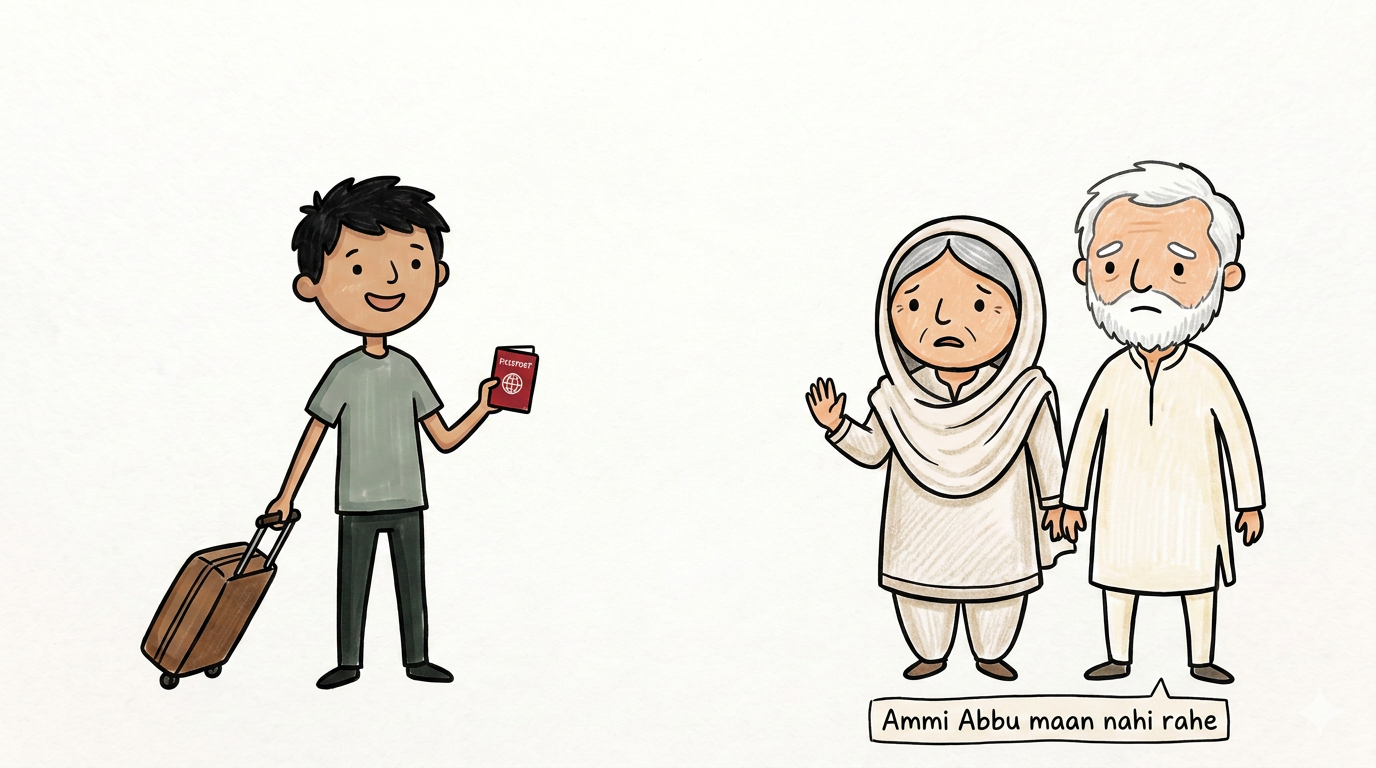
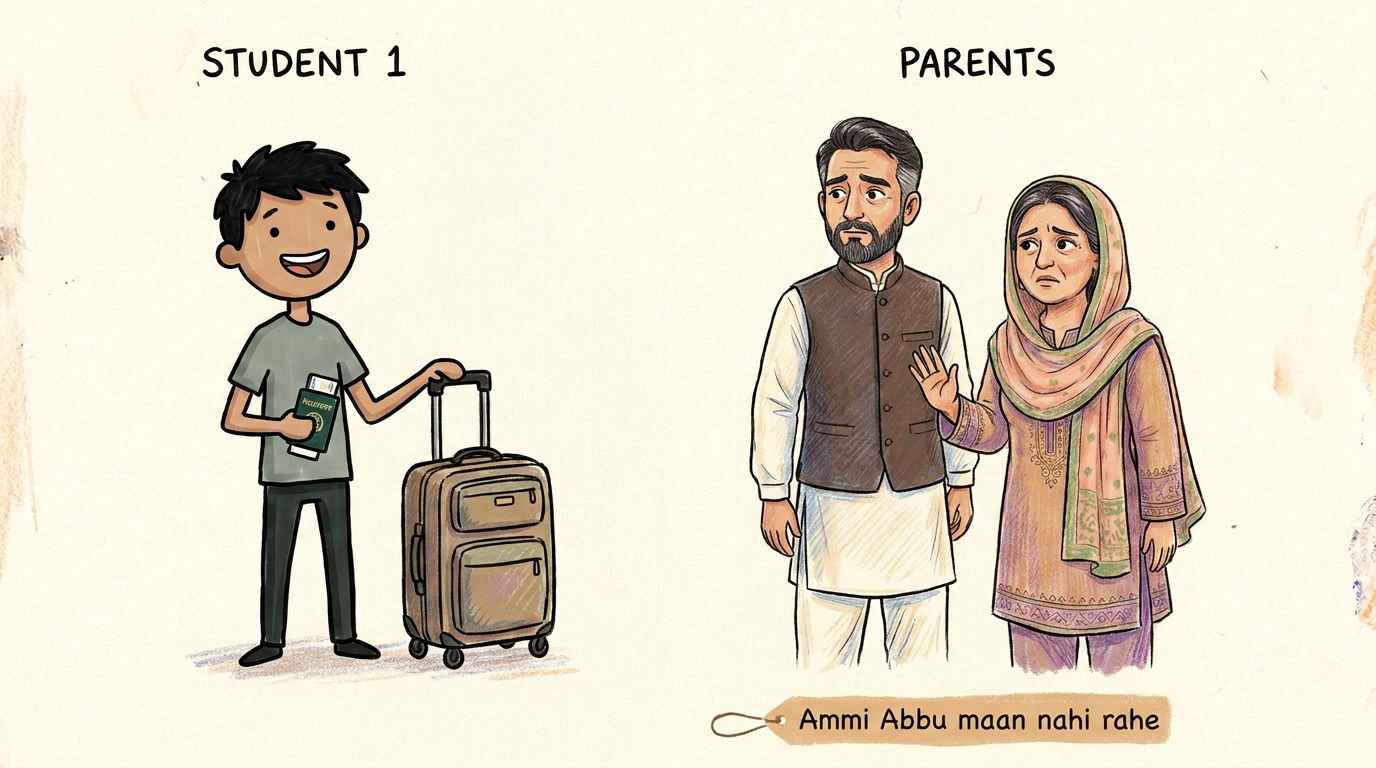
Reel-12: redesign Parents (middle-aged, proper dress) + all 10 scenes; art complete
New Parents design: ~50, Abbu in shalwar kameez + waistcoat, Ammi in eastern kurta
+ dupatta. Regenerated all scenes with the new reference. Character/kiwi scenes via
imagen-nano-banana-2 with Student 1 / Parents / Good Consultant / Kiwi refs; SC-04
object via recraft-v4-1. Consistency holds across scenes.

diff --git a/Reel-12 - Ammi Abbu Ko Kaise Manayein/README.md b/Reel-12 - Ammi Abbu Ko Kaise Manayein/README.md
@@ -40,9 +40,14 @@ as image references. Style-approval gate: one test image first, then the rest.
 - [x] Scene prompts
 - [x] Edit sheet
 - [x] README
-- [ ] Test image approved
-- [ ] All 10 scenes generated + saved
-- [ ] Committed + pushed to `claude/reel-12-parents`
+- [x] Test image approved (SC-01)
+- [x] Parents redesigned — middle-aged (~50), Abbu in shalwar kameez + waistcoat, Ammi in eastern kurta + dupatta (`Characters/Parents.png` updated)
+- [x] All 10 scenes generated + saved to `Scenes/`
+- [x] Committed + pushed to `claude/reel-12-parents`
+
+Art complete: SC-01…SC-10 (16:9 PNGs). Object scene (SC-04) = recraft-v4-1; character/kiwi scenes =
+imagen-nano-banana-2 with Student 1 / Parents / Good Consultant / Kiwi references. Next: assemble
+both cuts (reel end SC-09, ad end SC-10) per the edit sheet.
 
 ## Open questions
 1. CTA keyword: "PARENTS" (used) — keep, or change?
